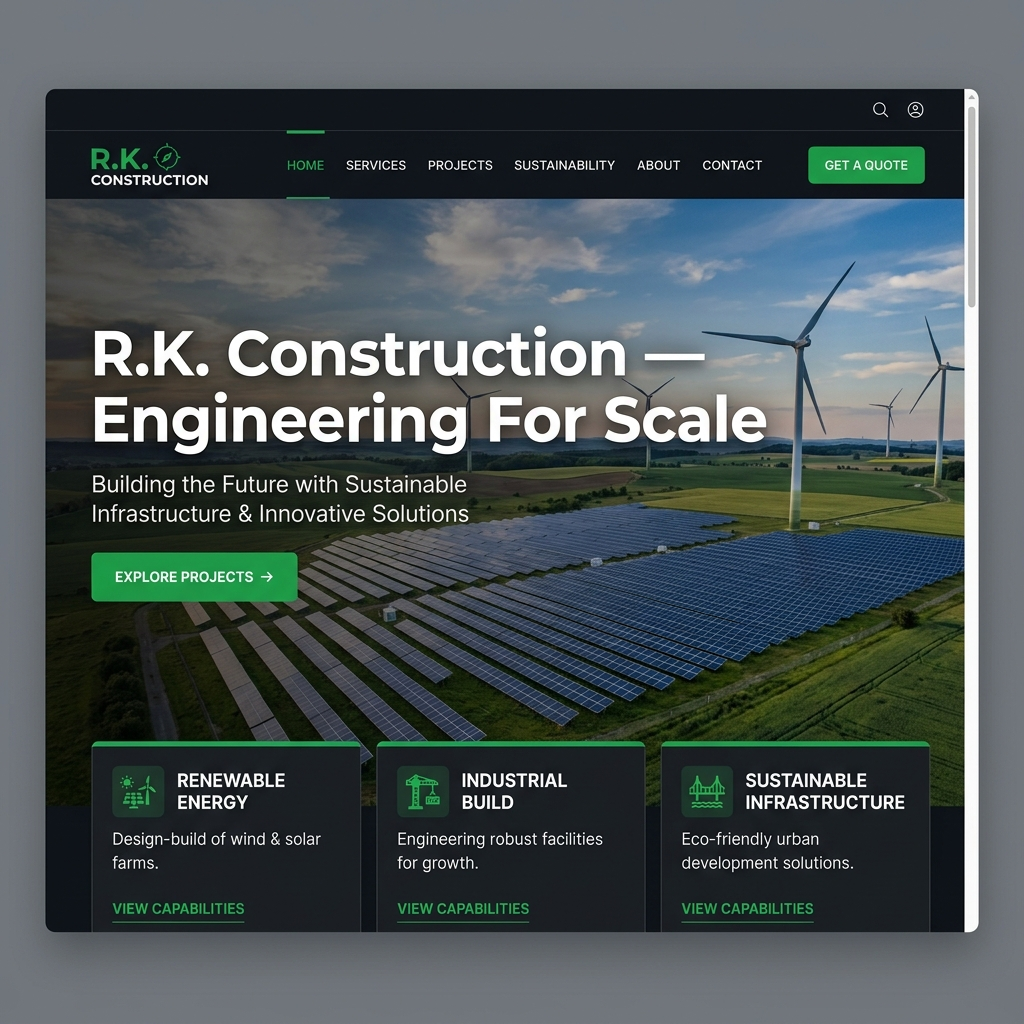
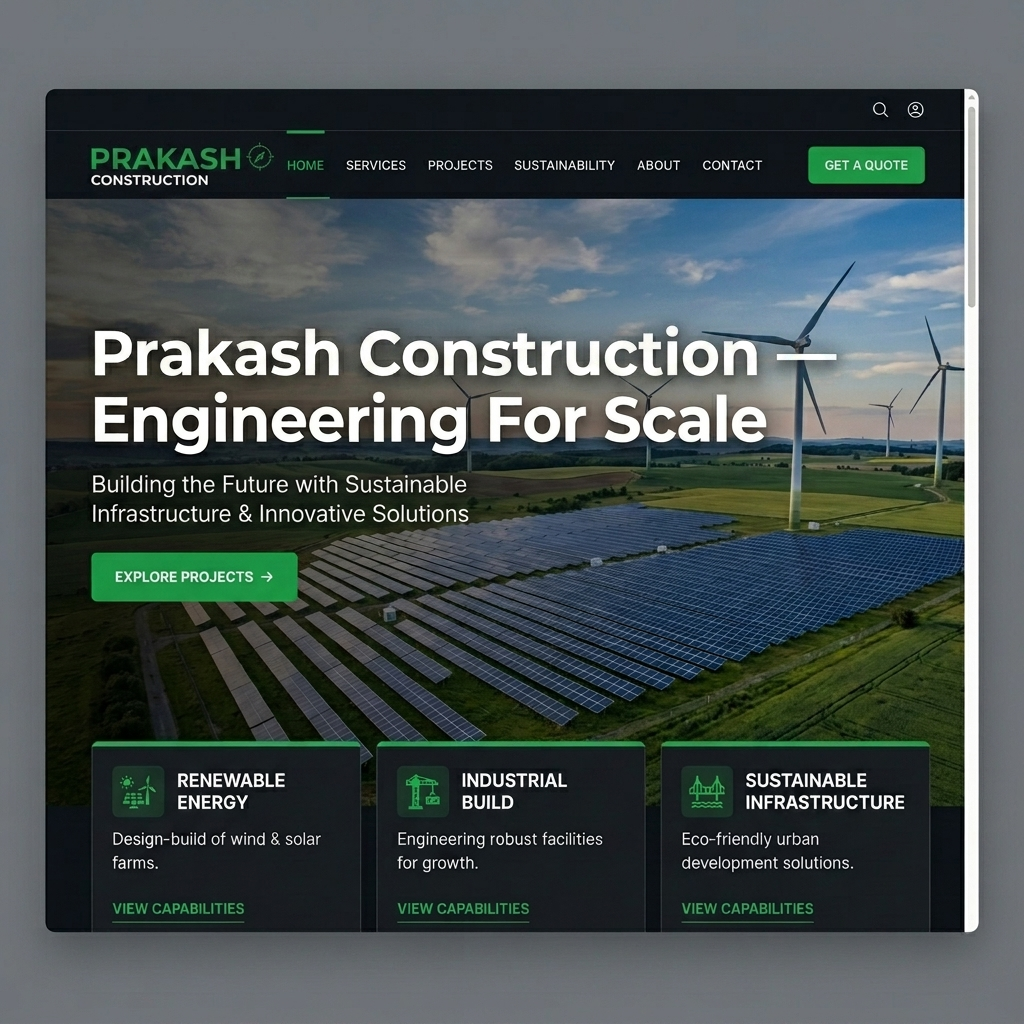
third commit

Changed region(s): [[0.0938, 0.3125, 0.8438, 0.375], [0.0938, 0.125, 0.25, 0.1875]]

diff --git a/src/components/Projects.jsx b/src/components/Projects.jsx
@@ -1,9 +1,10 @@
 import React from 'react';
+import { ExternalLink } from 'lucide-react';
 import ScrollReveal from './ScrollReveal';
 import ecommerceImg from '../assets/Screenshot 2026-07-17 161829.png';
 import harmonyImg from '../assets/mindcare_clinic.png';
-import sumukhImg from '../assets/axion_manufacturing_mockup.png';
-import pratickImg from '../assets/rk_construction_mockup.png';
+import sumukhImg from '../assets/snmukh_portfolio_showcase.png';
+import pratickImg from '../assets/prakash_construction_mockup.png';
 import zeckImg from '../assets/zeko_website_mockup.png';
 import sterlingImg from '../assets/sterling_website_mockup.png';
 import aibamsImg from '../assets/landing_page.png';
@@ -11,40 +12,6 @@ import roseBoutiqueImg from '../assets/rose_boutique_mockup.png';
 
 const Projects = () => {
   const projects = [
-    // {
-    //   id: 1,
-    //   title: 'Blog System with Admin Panel',
-    //   category: 'Full Stack',
-    //   image: dashboardImg,
-    //   tags: ['React', 'TypeScript', 'FastAPI', 'PostgreSQL', 'JWT'],
-    //   summary: 'A full-featured blog platform with user authentication, admin panel, and complete CRUD operations.',
-    //   description: 'A robust and scalable blog application featuring user authentication, role-based admin controls, and complete CRUD functionality. Built with a React frontend and a FastAPI backend connected to PostgreSQL database, securing endpoints with JWT tokens.',
-    //   features: [
-    //     'Full-featured blog platform with markdown support',
-    //     'JWT-based user authentication and admin dashboard controls',
-    //     'Designed RESTful API endpoints with FastAPI',
-    //     'Connected to a relational PostgreSQL database structure'
-    //   ],
-    //   github: 'https://github.com/RoshniParmarR',
-    //   live: 'https://github.com/RoshniParmarR',
-    // },
-    // {
-    //   id: 2,
-    //   title: 'Telusko Track',
-    //   category: 'Frontend',
-    //   image: chatImg,
-    //   tags: ['React', 'TypeScript', 'Framer Motion', 'FastAPI', 'PostgreSQL'],
-    //   summary: 'A tracking and progress application featuring premium Framer Motion animations.',
-    //   description: 'Telusko Track is a progress tracking dashboard designed with a strong focus on UI/UX. It incorporates fluid Framer Motion animations to guide user navigation and interactivity, backed by a FastAPI and PostgreSQL integration for progress logging.',
-    //   features: [
-    //     'Visual tracking dashboards with progress analytics',
-    //     'Applied Framer Motion animations for enhanced interactivity',
-    //     'Full-stack state integration with persistent progress logging',
-    //     'Responsive grid view optimized for mobile and desktop screens'
-    //   ],
-    //   github: 'https://github.com/RoshniParmarR',
-    //   live: 'https://github.com/RoshniParmarR',
-    // },
     {
       id: 4,
       title: 'MindCare Clinic',
@@ -60,11 +27,11 @@ const Projects = () => {
         'Fully responsive layout optimized for all device sizes'
       ],
       github: 'https://github.com/RoshniParmarR',
-      live: 'https://github.com/RoshniParmarR',
+      live: 'https://roshniparmarr.github.io/mindcare/',
     },
     {
       id: 5,
-      title: 'Axion Manufacturing Website',
+      title: 'Snmukh engineer Website',
       category: 'Corporate',
       image: sumukhImg,
       tags: ['HTML5', 'Tailwind CSS', 'JavaScript', 'ScrollReveal'],
@@ -77,7 +44,7 @@ const Projects = () => {
         'Online quotation and contact forms'
       ],
       github: 'https://github.com/RoshniParmarR',
-      live: 'https://github.com/RoshniParmarR',
+      live: 'https://roshniparmarr.github.io/Snmukh-enigneer/',
     },
     {
       id: 6,
@@ -86,7 +53,7 @@ const Projects = () => {
       image: pratickImg,
       tags: ['React', 'CSS Modules', 'Lucide Icons', 'Vite'],
       summary: 'Portfolio and services platform for an architectural design and luxury home construction firm.',
-      description: 'Pratick Construction is a clean, minimalist portfolio website for a luxury home building and design firm. It uses high-contrast layouts to highlight blueprints, interior designs, and construction management milestones.',
+      description: 'Prakash Construction is a clean, minimalist portfolio website for a luxury home building and design firm. It uses high-contrast layouts to highlight blueprints, interior designs, and construction management milestones.',
       features: [
         'High-definition architectural project portfolios',
         'Step-by-step building process timeline guide',
@@ -94,7 +61,7 @@ const Projects = () => {
         'Testimonials and client satisfaction surveys'
       ],
       github: 'https://github.com/RoshniParmarR',
-      live: 'https://github.com/RoshniParmarR',
+      live: 'https://roshniparmarr.github.io/Prakash-Construction/',
     },
     {
       id: 7,
@@ -111,16 +78,16 @@ const Projects = () => {
         'Interactive team bios and capability charts'
       ],
       github: 'https://github.com/RoshniParmarR',
-      live: 'https://github.com/RoshniParmarR',
+      live: 'https://roshniparmarr.github.io/ZEKO-PRIVATE-LTD/',
     },
     {
       id: 8,
-      title: 'Chemical company',
+      title: 'Sterlin Chemicals',
       category: 'Corporate',
       image: sterlingImg,
       tags: ['HTML5', 'CSS3', 'JavaScript', 'Vite'],
       summary: 'Industrial corporate website for a chemical manufacturer featuring safety documentation and chemical supply catalogs.',
-      description: 'Sterling Chemical is a specialized industrial web portal for a manufacturer of bulk industrial chemicals. It features clean product catalogs, online Material Safety Data Sheet (MSDS) downloads, and bulk order supply forms.',
+      description: 'Sterlin Chemicals is a specialized industrial web portal for a manufacturer of bulk industrial chemicals. It features clean product catalogs, online Material Safety Data Sheet (MSDS) downloads, and bulk order supply forms.',
       features: [
         'Fully searchable chemical catalog with filtration',
         'One-click Material Safety Data Sheet (MSDS) downloads',
@@ -128,7 +95,7 @@ const Projects = () => {
         'Compliance and environmental policy displays'
       ],
       github: 'https://github.com/RoshniParmarR',
-      live: 'https://github.com/RoshniParmarR',
+      live: 'https://roshniparmarr.github.io/Sterlin-chemicals/',
     },
     {
       id: 9,
@@ -145,7 +112,7 @@ const Projects = () => {
         'Fully responsive section layouts and dark mode support'
       ],
       github: 'https://github.com/RoshniParmarR',
-      live: 'https://github.com/RoshniParmarR',
+      live: 'https://roshniparmarr.github.io/Landing-page/',
     },
     {
       id: 10,
@@ -162,25 +129,8 @@ const Projects = () => {
         'Modern minimalist design with smooth animations'
       ],
       github: 'https://github.com/RoshniParmarR',
-      live: 'https://github.com/RoshniParmarR',
+      live: 'https://roshniparmarr.github.io/ROSEBOUTIQUE/',
     },
-    // {
-    //   id: 4,
-    //   title: 'To-Do List App',
-    //   category: 'Full Stack',
-    //   image: ecommerceImg,
-    //   tags: ['React', 'TypeScript', 'Tailwind CSS', 'FastAPI', 'PostgreSQL'],
-    //   summary: 'An interactive task management app with full frontend-backend connectivity and responsive UI.',
-    //   description: 'A seamless task management app that provides full frontend-backend integration. It supports creating, updating, and deleting tasks in real-time, utilizing Tailwind CSS for a premium glassmorphic UI and storing data persistently in PostgreSQL.',
-    //   features: [
-    //     'Interactive task creation, edit, and deletion',
-    //     'Persisted database storage with FastAPI and PostgreSQL',
-    //     'Responsive glassmorphism UI styled with Tailwind CSS',
-    //     'Real-time status updates and priority categorization'
-    //   ],
-    //   github: 'https://github.com/RoshniParmarR',
-    //   live: 'https://github.com/RoshniParmarR',
-    // },
   ];
 
   return (
@@ -197,7 +147,7 @@ const Projects = () => {
               Featured Projects
             </h2>
             <p className="mt-4 text-neutral-500 dark:text-neutral-400 text-[16px] leading-relaxed">
-              A curated showcase of professional web applications and client websites built with modern technologies.
+              A curated showcase of professional web applications and client websites built with modern technologies. Click any project to view the live website.
             </p>
           </div>
         </ScrollReveal>
@@ -206,34 +156,55 @@ const Projects = () => {
         <ScrollReveal direction="up" delay={150}>
           <div className="grid grid-cols-1 md:grid-cols-2 lg:grid-cols-3 gap-8 items-stretch">
             {projects.map((project) => (
-              <div
+              <a
                 key={project.id}
-                className="flex flex-col h-full bg-neutral-50 dark:bg-neutral-950 border border-neutral-200/60 dark:border-neutral-900 overflow-hidden shadow-sm relative"
+                href={project.live}
+                target="_blank"
+                rel="noopener noreferrer"
+                className="group flex flex-col h-full bg-neutral-50 dark:bg-neutral-950 border border-neutral-200/60 dark:border-neutral-900 overflow-hidden shadow-sm relative transition-all duration-300 hover:-translate-y-1.5 hover:shadow-lg hover:border-neutral-300 dark:hover:border-neutral-700 cursor-pointer block text-inherit no-underline"
               >
                 {/* Project Image Container */}
                 <div className="relative aspect-video w-full overflow-hidden bg-neutral-200 dark:bg-neutral-900 border-b border-neutral-200/60 dark:border-neutral-900 flex-shrink-0">
                   <img
                     src={project.image}
                     alt={project.title}
-                    className="w-full h-full object-cover"
+                    className="w-full h-full object-cover transition-transform duration-500 group-hover:scale-105"
                   />
+
                 </div>
 
                 {/* Card Content */}
-                <div className="p-6 flex flex-col flex-grow relative z-10">
+                <div className="p-6 flex flex-col flex-grow relative z-10 justify-between">
 
                   {/* Title & Summary */}
-                  <div className="space-y-2.5 flex-grow">
-                    <h3 className="text-[20px] font-medium text-neutral-900 dark:text-white leading-tight">
-                      {project.title}
-                    </h3>
+                  <div className="space-y-2.5">
+                    <div className="flex items-center justify-between gap-2">
+                      <h3 className="text-[20px] font-medium text-neutral-900 dark:text-white leading-tight group-hover:text-black dark:group-hover:text-neutral-100 transition-colors">
+                        {project.title}
+                      </h3>
+                      <ExternalLink className="w-4 h-4 text-neutral-400 group-hover:text-neutral-900 dark:group-hover:text-white transition-colors flex-shrink-0" />
+                    </div>
                     <p className="text-[14px] text-neutral-500 dark:text-neutral-400 leading-relaxed line-clamp-3">
                       {project.summary}
                     </p>
                   </div>
 
+                  {/* Tech Tags */}
+                  {project.tags && project.tags.length > 0 && (
+                    <div className="flex flex-wrap gap-1.5 mt-5 pt-4 border-t border-neutral-200/60 dark:border-neutral-900">
+                      {project.tags.map((tag, tIdx) => (
+                        <span
+                          key={tIdx}
+                          className="text-[11px] font-medium px-2 py-0.5 bg-neutral-200/60 dark:bg-neutral-900 text-neutral-600 dark:text-neutral-400 rounded-xs"
+                        >
+                          {tag}
+                        </span>
+                      ))}
+                    </div>
+                  )}
+
                 </div>
-              </div>
+              </a>
             ))}
           </div>
         </ScrollReveal>
@@ -244,3 +215,4 @@ const Projects = () => {
 };
 
 export default Projects;
+

diff --git a/src/components/Resume.jsx b/src/components/Resume.jsx
@@ -98,7 +98,7 @@ const Resume = ({ isHidden = false }) => {
       duration: 'Jan 2026 - Jun 2026',
       bullets: [
         'Developed full-stack web applications using React, TypeScript, FastAPI, and PostgreSQL.',
-        'Built the MindCare Clinic, RK Construction, and Axion Manufacturing websites.',
+        'Built the MindCare Clinic, Prakash Construction, and Snmukh engineer websites.',
         'Created a secure Blog System with JWT authentication and CRUD REST APIs.'
       ]
     },
@@ -116,17 +116,17 @@ const Resume = ({ isHidden = false }) => {
   const projects = [
 
     {
-      title: 'MindCare Clinic',
+      title: 'MindCare',
       tech: 'React, Tailwind CSS, Vite, Framer Motion',
       desc: 'Premium website showcasing interactive client intake and customized appointment scheduling.'
     },
     {
-      title: 'Axion Manufacturing Website',
+      title: 'Snmukh Engineer Website',
       tech: 'HTML5, Tailwind CSS, JavaScript, ScrollReveal',
       desc: 'Corporate showcase highlighting heavy industrial equipment catalogs and inline quotation forms.'
     },
     {
-      title: 'RK Construction Website',
+      title: 'Prakash Construction Website',
       tech: 'React, CSS Modules, Lucide Icons, Vite',
       desc: 'Architectural portfolio showcasing luxury design timelines and client reviews.'
     },
@@ -136,7 +136,7 @@ const Resume = ({ isHidden = false }) => {
       desc: 'Business consulting portal featuring service cost calculators and booking integrations.'
     },
     {
-      title: 'Chemical Company',
+      title: 'Sterlin Chemicals',
       tech: 'HTML5, CSS3, JavaScript, Vite',
       desc: 'Industrial corporate catalog featuring bulk shipping estimators and MSDS downloads.'
     },

diff --git a/src/components/Experience.jsx b/src/components/Experience.jsx
@@ -12,7 +12,7 @@ const Experience = () => {
       description: [
         'Developed and maintained full-stack web applications using React, TypeScript, Tailwind CSS, FastAPI, and PostgreSQL.',
         'Built the MindCare Clinic website, featuring interactive client intake, service scheduling, and responsive layouts.',
-        'Developed the RK Construction Website (Main Construction), showcasing luxury architectural designs and custom project timelines.',
+        'Developed the Prakash Construction Website (Main Construction), showcasing luxury architectural designs and custom project timelines.',
         'Created the Axion Manufacturing Website (Manufacturing Company) highlighting heavy industrial equipment catalogs and lead forms.',
         'Built a complete Blog System with admin panel, JWT authentication, and CRUD operations via REST API.',
         'Collaborated on UI/UX design for multiple client-facing projects including landing pages and admin dashboards.',
